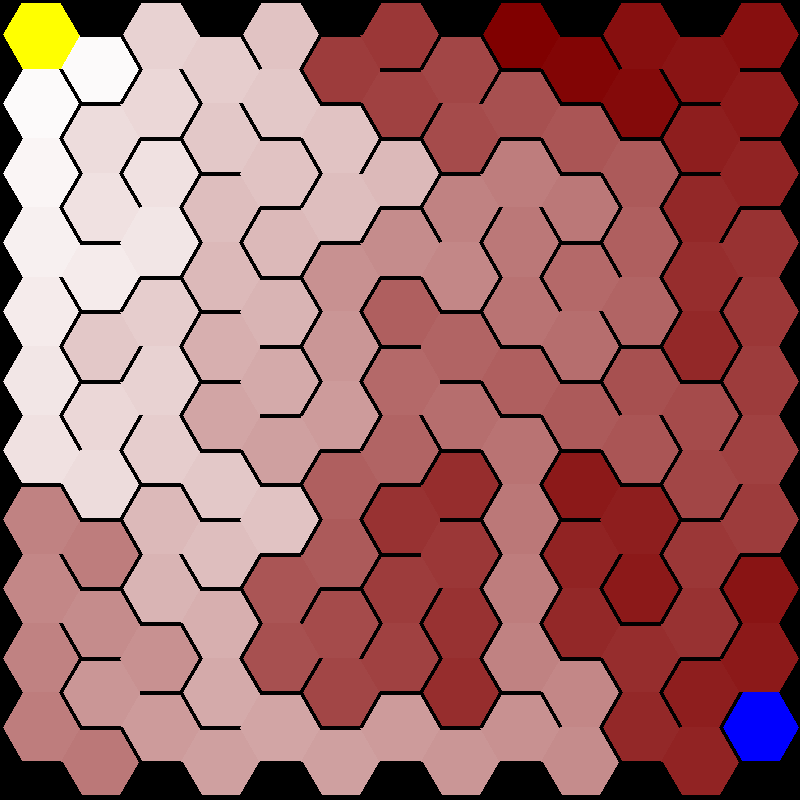
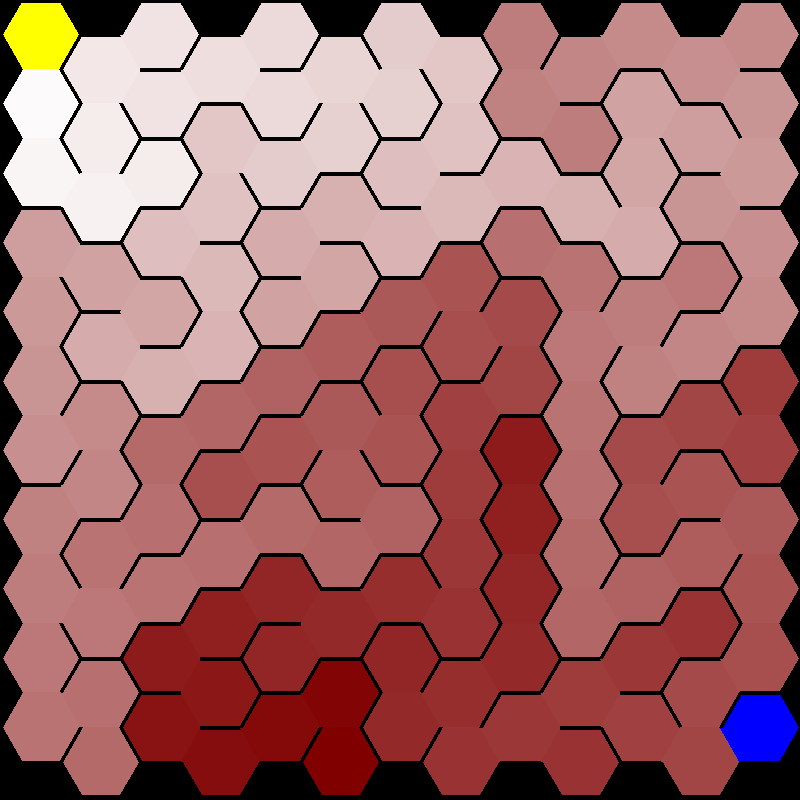
set kruskal as current

diff --git a/main.py b/main.py
@@ -54,9 +54,9 @@ while run:
                 rightMouseClicked = True
 
     if start:
-        wilson.Generate(screen, show_text, color_mode, show_path)
+        # wilson.Generate(screen, show_text, color_mode, show_path)
         # binary_tree.Generate(screen, show_text, color_mode, show_path)
-        # kruskal.Generate(screen, show_text, color_mode, show_path)
+        kruskal.Generate(screen, show_text, color_mode, show_path)
         # side_winder.Generate(screen, show_text, color_mode, show_path)
         # hunt_and_kill.Generate(screen, show_text, color_mode, show_path)
         # aldous_broder.Generate(screen, show_text, color_mode, show_path)
